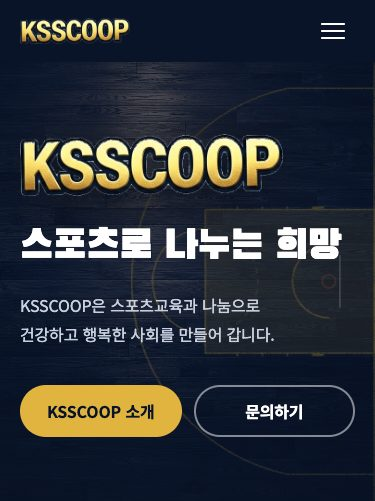
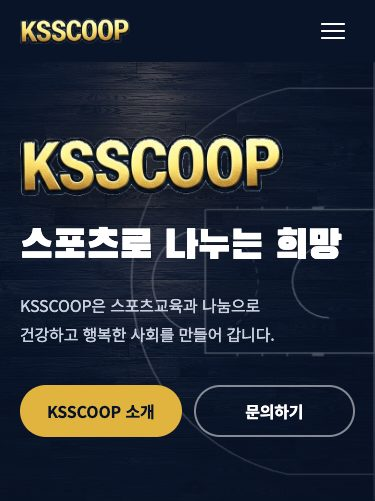
Use white regulation court lines in the hero and realistic example titles in news

diff --git a/index.html b/index.html
@@ -148,8 +148,9 @@ footer { border-top: 1px solid var(--line); padding: 24px 0; color: var(--muted)
       <h2><span>3.</span> 디자인 콘셉트: 센터 코트</h2>
       <ul class="items">
         <li>실제 농구 경기장 바닥을 무대로 삼아 스포츠 단체의 정체성 표현</li>
-        <li>첫 화면 배경: 남색 나무 바닥 위에 골밑 영역(페인트존, 자유투 원, 3점 라인, 레인 표시, 백보드, 림)을 국제 규격(FIBA) 비율로 표시</li>
-        <li>실제 코트 라인 기준 적용: 선 폭 5cm 비율, 페인트존 칠, 칠이 닳은 질감 표현</li>
+        <li>첫 화면 배경: 남색 나무 바닥 위에 골밑 영역(페인트존, 자유투 원, 3점 라인, 레인 표시)을 국제 규격(FIBA) 비율로 표시</li>
+        <li>실제 코트 라인 기준 적용: 흰색 선, 선 폭 5cm 비율, 페인트존은 한 톤 어두운 칠</li>
+        <li>금색은 로고와 주요 버튼에만 사용하여 강조 효과 유지</li>
         <li>왼쪽에 로고, 대표 문구, 설명, 버튼을 정렬하여 첫 화면 안에서 핵심 정보 확인 가능</li>
                 <li>페이지 진입 시 코트 선이 그려지고 문구가 차례로 나타나는 효과 1회 적용 (움직임 최소화 설정 시 미적용)</li>
         <li>첫 화면에 시각적 강조를 집중하고, 이하 영역은 같은 소재(남색 바닥·금색 선)로 통일감 유지</li>
@@ -179,7 +180,7 @@ footer { border-top: 1px solid var(--line); padding: 24px 0; color: var(--muted)
       <div class="screens">
         <div class="screen">
           <figure><img src="design-assets/hero.jpg" width="1200" height="693" alt="첫 화면 시안" loading="lazy"></figure>
-          <div><h3>첫 화면</h3><ul class="items"><li>배경: 나무 바닥과 골밑 코트 라인</li><li>왼쪽 정렬: 로고, 대표 문구, 설명, 소개·문의 버튼</li></ul></div>
+          <div><h3>첫 화면</h3><ul class="items"><li>배경: 나무 바닥과 흰색 골밑 코트 라인</li><li>왼쪽 정렬: 로고, 대표 문구, 설명, 소개·문의 버튼</li></ul></div>
         </div>
         <div class="screen">
           <figure><img src="design-assets/about.jpg" width="1200" height="355" alt="소개 영역 시안" loading="lazy"></figure>
@@ -199,7 +200,7 @@ footer { border-top: 1px solid var(--line); padding: 24px 0; color: var(--muted)
         </div>
         <div class="screen">
           <figure><img src="design-assets/news.jpg" width="1200" height="1115" alt="소식 영역 시안" loading="lazy"></figure>
-          <div><h3>소식</h3><ul class="items"><li>채널별 보기(전체, 블로그, 인스타그램, 유튜브)</li><li>게시물 카드: 썸네일, 채널, 제목, 날짜</li><li>채널 주소 확인 전에는 ‘예시’ 표시 카드로 구성 확인 (실제 게시물 아님)</li></ul></div>
+          <div><h3>소식</h3><ul class="items"><li>채널별 보기(전체, 블로그, 인스타그램, 유튜브)</li><li>게시물 카드: 썸네일, 채널, 제목, 날짜</li><li>채널 주소 확인 전에는 ‘예시’ 표시 카드로 구성 확인 (예시 제목·이미지, 실제 게시물 아님)</li></ul></div>
         </div>
         <div class="screen">
           <figure><img src="design-assets/disclosure.jpg" width="1200" height="520" alt="경영공시 영역 시안" loading="lazy"></figure>

diff --git a/site/news.js b/site/news.js
@@ -59,16 +59,16 @@
   // 실제 게시물이 없을 때 보여 주는 예시 카드. 실제 있었던 일처럼 보이는 내용은 쓰지 않는다.
   const DEMO = {
     blog: [
-      { title: '블로그 글 제목이 이곳에 두 줄까지 표시됩니다', thumb: 'assets/ai/gold-line-detail.jpg' },
-      { title: '최신 글이 올라오면 순서대로 바뀝니다', thumb: 'assets/ai/value-education.jpg' },
+      { title: '코트 위에서 배우는 협동의 가치', thumb: 'assets/ai/gold-line-detail.jpg' },
+      { title: '처음 농구를 시작하는 친구들을 위한 기본기 안내', thumb: 'assets/ai/value-education.jpg' },
     ],
     instagram: [
-      { title: '인스타그램 게시물의 첫 문장이 이곳에 표시됩니다', thumb: 'assets/ai/value-healthy.jpg' },
-      { title: '사진과 함께 최신 게시물이 보입니다', thumb: 'assets/ai/value-everyone.jpg' },
+      { title: '오늘도 코트 위에서 함께 뛰었습니다 #\u2060모두의스포츠', thumb: 'assets/ai/value-healthy.jpg' },
+      { title: '운동화 끈 꽉 묶고, 이번 주도 시작 #\u2060KSSCOOP', thumb: 'assets/ai/value-everyone.jpg' },
     ],
     youtube: [
-      { title: '유튜브 영상 제목이 이곳에 표시됩니다', thumb: 'assets/ai/court-floor.jpg' },
-      { title: '새 영상이 올라오면 자동으로 추가됩니다', thumb: 'assets/ai/gold-line-detail.jpg' },
+      { title: '집에서도 할 수 있는 드리블 연습 3가지', thumb: 'assets/ai/court-floor.jpg' },
+      { title: 'KSSCOOP을 소개합니다', thumb: 'assets/ai/gold-line-detail.jpg' },
     ],
   };
 

diff --git a/site/index.html b/site/index.html
@@ -32,17 +32,10 @@
 <main id="main">
   <section class="hero" id="top">
     <div class="hero-floor" aria-hidden="true"></div>
-    <!-- 반쪽 코트(FIBA). 세로 15m = 1000 단위(1m ≈ 66.7), 골밑이 오른쪽. 선 폭은 실제 규격 5cm -->
+    <!-- 반쪽 코트(FIBA). 세로 15m = 1000 단위(1m ≈ 66.7), 골밑이 오른쪽. 선 폭은 실제 규격 5cm, 흰색 -->
     <svg class="court" viewBox="0 0 1000 1000" preserveAspectRatio="xMaxYMid slice" aria-hidden="true">
-      <defs>
-        <filter id="worn" x="0" y="0" width="100%" height="100%">
-          <feTurbulence type="fractalNoise" baseFrequency="0.9" numOctaves="2" seed="7" result="noise"/>
-          <feColorMatrix in="noise" type="matrix" values="0 0 0 0 0  0 0 0 0 0  0 0 0 0 0  0 0 0 -2.2 2.1" result="mask"/>
-          <feComposite in="SourceGraphic" in2="mask" operator="in"/>
-        </filter>
-      </defs>
       <rect class="paint" x="613" y="336.5" width="387" height="327"/>
-      <g class="lines" filter="url(#worn)">
+      <g class="lines">
         <line class="line" x1="998.3" y1="0" x2="998.3" y2="1000" pathLength="1"/>
         <rect class="line" x="613" y="336.5" width="387" height="327" pathLength="1"/>
         <path class="line" d="M613 380 A120 120 0 0 0 613 620" pathLength="1"/>
@@ -61,8 +54,6 @@
         </g>
       </g>
       <path class="line soft" d="M613 380 A120 120 0 0 1 613 620"/>
-      <line class="board" x1="920" y1="440" x2="920" y2="560"/>
-      <circle class="rim" cx="895" cy="500" r="15"/>
     </svg>
     <div class="hero-shade" aria-hidden="true"></div>
     <div class="wrap hero-inner">

diff --git a/site/style.css b/site/style.css
@@ -63,12 +63,10 @@ a:focus-visible, button:focus-visible { outline: 3px solid var(--gold); outline-
   background: url("assets/ai/court-floor.jpg") 60% 30% / cover no-repeat, var(--court);
 }
 .court { position: absolute; inset: 0; width: 100%; height: 100%; z-index: -2; }
-.paint { fill: #e0b43f; opacity: 0.26; mix-blend-mode: soft-light; }
-.line { fill: none; stroke: var(--gold); stroke-width: 3.33; stroke-opacity: 0.92; }
-.marks rect { fill: var(--gold); fill-opacity: 0.92; }
-.line.soft { stroke-width: 3.33; stroke-opacity: 0.35; stroke-dasharray: 14 12; }
-.board { stroke: #f4f1e8; stroke-width: 4; stroke-opacity: 0.55; }
-.rim { fill: none; stroke: #e2733a; stroke-width: 3; stroke-opacity: 0.7; }
+.paint { fill: #07101f; opacity: 0.45; }
+.line { fill: none; stroke: #ffffff; stroke-width: 3.33; stroke-opacity: 0.82; }
+.marks rect { fill: #ffffff; fill-opacity: 0.82; }
+.line.soft { stroke-opacity: 0.3; stroke-dasharray: 14 12; }
 .hero-shade {
   position: absolute; inset: 0; z-index: -1;
   background:
@@ -86,7 +84,7 @@ a:focus-visible, button:focus-visible { outline: 3px solid var(--gold); outline-
 
 @media (prefers-reduced-motion: no-preference) {
   .lines .line { stroke-dasharray: 1; stroke-dashoffset: 0; animation: draw 2s cubic-bezier(.6, 0, .2, 1) both; }
-  .paint, .marks, .soft, .board, .rim { animation: fade 1s 1.2s ease both; }
+  .paint, .marks, .soft { animation: fade 1s 1.2s ease both; }
   .hero-inner > * { animation: rise 0.8s cubic-bezier(.2, .8, .2, 1) both; }
   .hero-inner > :nth-child(2) { animation-delay: 0.1s; }
   .hero-inner > :nth-child(3) { animation-delay: 0.2s; }
